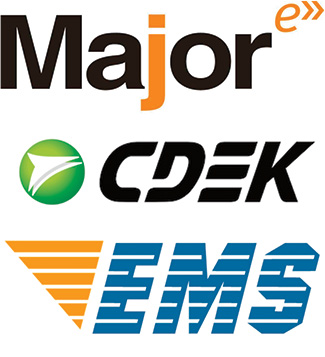
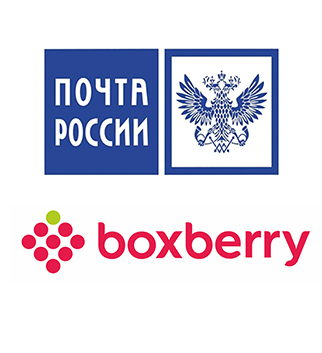
Доставка

diff --git a/src/routes/cartDetail/Positions/Position/Position.css b/src/routes/cartDetail/Positions/Position/Position.css
@@ -1,9 +1,9 @@
-.Cart-item {
+.Position {
   display: flex;
   flex-direction: row;
 }
 
-.Cart-item__picture {
+.Position__picture {
   width: 140px;
   height: 140px;
   cursor: pointer;
@@ -11,32 +11,32 @@
   margin-right: 20px;
 }
 
-.Cart-item__describe {
+.Position__describe {
   flex: 1;
   display: flex;
   flex-direction: column;
   justify-content: center;
 }
 
-.Cart-item__name {
+.Position__name {
   color: #43525A;
   font-size: 30px;
   word-break: break-word;
   line-height: 1.3em;
 }
 
-.Cart-item__producer {
+.Position__producer {
   color: #43525A;
   font-size: 20px;
   line-height: 1.3em;
 }
 
-.Cart-item__form {
+.Position__form {
   color: #43525A;
   font-size: 14px;
 }
 
-.Cart-item__amount {
+.Position__amount {
   width: 200px;
   display: flex;
   flex-direction: column;
@@ -44,20 +44,20 @@
   justify-content: center;
 }
 
-.Cart-item__body {
+.Position__body {
   flex: 1;
   display: flex;
   flex-direction: row;
 }
 
-.Cart-item__delete {
+.Position__delete {
   display: flex;
   flex-direction: column;
   align-items: center;
   justify-content: center;
 }
 
-.Cart-item__price {
+.Position__price {
   width: 200px;
   display: flex;
   align-items: center;
@@ -68,34 +68,34 @@
 }
 
 @media (max-width: 767px) {
-  .Cart-item {
+  .Position {
     /*flex-wrap: wrap;*/
   }
 
-  .Cart-item__amount {
+  .Position__amount {
     margin-top: 20px;
     width: 100%;
     max-width: 160px;
   }
 
-  .Cart-item__describe {
+  .Position__describe {
     justify-content: space-between;
   }
 
-  .Cart-item__price {
+  .Position__price {
     width: 100%;
     max-width: 160px;
   }
 
-  .Cart-item__delete  {
+  .Position__delete  {
     display: none;
   }
 
-  .Cart-item__picture {
+  .Position__picture {
     margin: 0;
   }
 
-  .Cart-item__body {
+  .Position__body {
     flex: 1;
     display: flex;
     flex-wrap: wrap;

diff --git a/src/routes/cartDetail/Positions/Position/Position.js b/src/routes/cartDetail/Positions/Position/Position.js
@@ -4,37 +4,37 @@ import Range from 'components/Range';
 import Delete from 'components/Delete';
 import Picture from 'components/Picture';
 import Currency from 'components/Currency';
-import './CartItem.css';
+import './Position.css';
 
 const noop = ()=>{};
 export default ({ className, pictures, name, price, discount, producer, form, amount, onClick = noop, onDelete = noop, onChange = noop}) => (
-  <div className={cx('Cart-item', className)}>
+  <div className={cx('Position', className)}>
     <Picture
       src={`img/${pictures[0]}`}
       onClick={onClick}
       placeholder={"no_photo.jpg"}
-      className="Cart-item__picture"
+      className="Position__picture"
     />
 
-    <div className="Cart-item__body">
-      <div className="Cart-item__describe">
-        <div className="Cart-item__name">{name}</div>
+    <div className="Position__body">
+      <div className="Position__describe">
+        <div className="Position__name">{name}</div>
         <div>
-          <div className="Cart-item__producer">{producer}</div>
-          <div className="Cart-item__form">{form}</div>
+          <div className="Position__producer">{producer}</div>
+          <div className="Position__form">{form}</div>
         </div>
       </div>
 
-      <div className="Cart-item__amount">
+      <div className="Position__amount">
         <Range min={0} value={amount} onChange={onChange} />
       </div>
 
-      <div className="Cart-item__price">
+      <div className="Position__price">
         <Currency value={price} discount={discount} />
       </div>
     </div>
 
-    <div className="Cart-item__delete">
+    <div className="Position__delete">
       <Delete onClick={onDelete} />
     </div>
   </div>

diff --git a/src/routes/cartDetail/Positions/Positions.js b/src/routes/cartDetail/Positions/Positions.js
@@ -10,7 +10,7 @@ import { NavAdapter } from 'modules/NavController';
 import Cart from 'flux/Cart';
 import Actions from 'flux/CartActions';
 import history from 'core/history';
-import CartItem from './CartItem';
+import Position from './Position';
 import './Positions.css';
 
 const EmptyCart = () => (
@@ -21,7 +21,6 @@ const EmptyCart = () => (
         onClick={() => history.push('/') }
         className="Positions__back">В каталог</Button>
     </Toolbar>
-
   </div>
 );
 
@@ -52,7 +51,7 @@ export default class Positions extends StoreComponent {
         <div className="Positions__grid">
           {
             positions
-              .map((i)=><CartItem
+              .map((i)=><Position
 
               price={i.price}
               amount={i.amount}

diff --git a/src/routes/cartDetail/Delivery/Delivery.css b/src/routes/cartDetail/Delivery/Delivery.css
@@ -180,31 +180,23 @@
   }
 
   .Delivery__methods {
-    align-items: stretch;
-    flex-direction: column;
-    justify-content: center;
-    margin: 20px 0;
   }
 
   .Delivery__method_standard,
   .Delivery__method_rapid,
   .Delivery__method_emc {
-    max-width: 100%;
-    height: 80px;
-    display: flex;
-    flex-direction: row;
-    align-items: center;
+    max-width: 90px;
   }
 
   .Delivery__method_standard img,
   .Delivery__method_rapid img,
   .Delivery__method_emc img {
-    width: 95px;
-    height: 70px;
+    width: 100%;
+    height: auto;
   }
 
   .Delivery__method-title {
-    font-size: 15px;
+    font-size: 12px;
   }
 
   .Delivery__button-toolbar {

diff --git a/src/routes/productDetail/ProductDetail.css b/src/routes/productDetail/ProductDetail.css
@@ -7,7 +7,8 @@
   display: flex;
   flex-wrap: wrap;
   flex-direction: row;
-  width: 1024px;
+  max-width: 1024px;
+  width: 100vw;
   margin: 40px auto;
   justify-content: space-around;
 }
